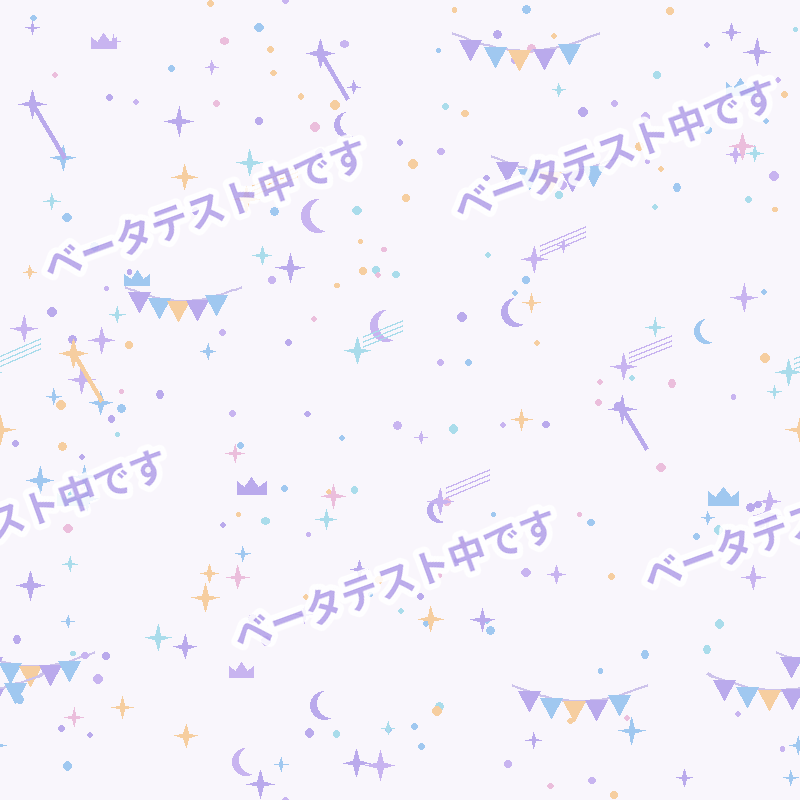
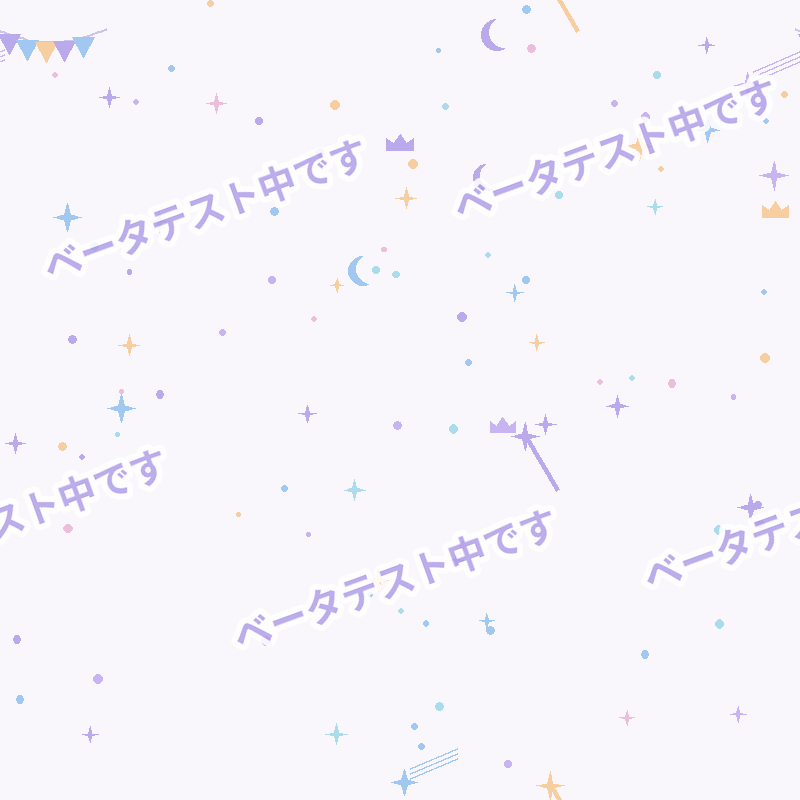
v1.2.056 ベータテスト中の背景：旗の飾りを1つに、星や月などの模様を4割ほどに減らして、うるさくないように
Claude-Session: https://claude.ai/code/session_01XZZ6xdqhXeh9WYhr9dFQBE

diff --git a/config.js b/config.js
@@ -9,7 +9,7 @@
 ================================================================ */
 
 /* ---------------- ① バージョン ---------------- */
-window.SKY_VERSION = "v1.2.055";
+window.SKY_VERSION = "v1.2.056";
 window.SKY_VERSION_DATE = "2026/11/11";
 
 /* ---------------- ② GASのURL ----------------
